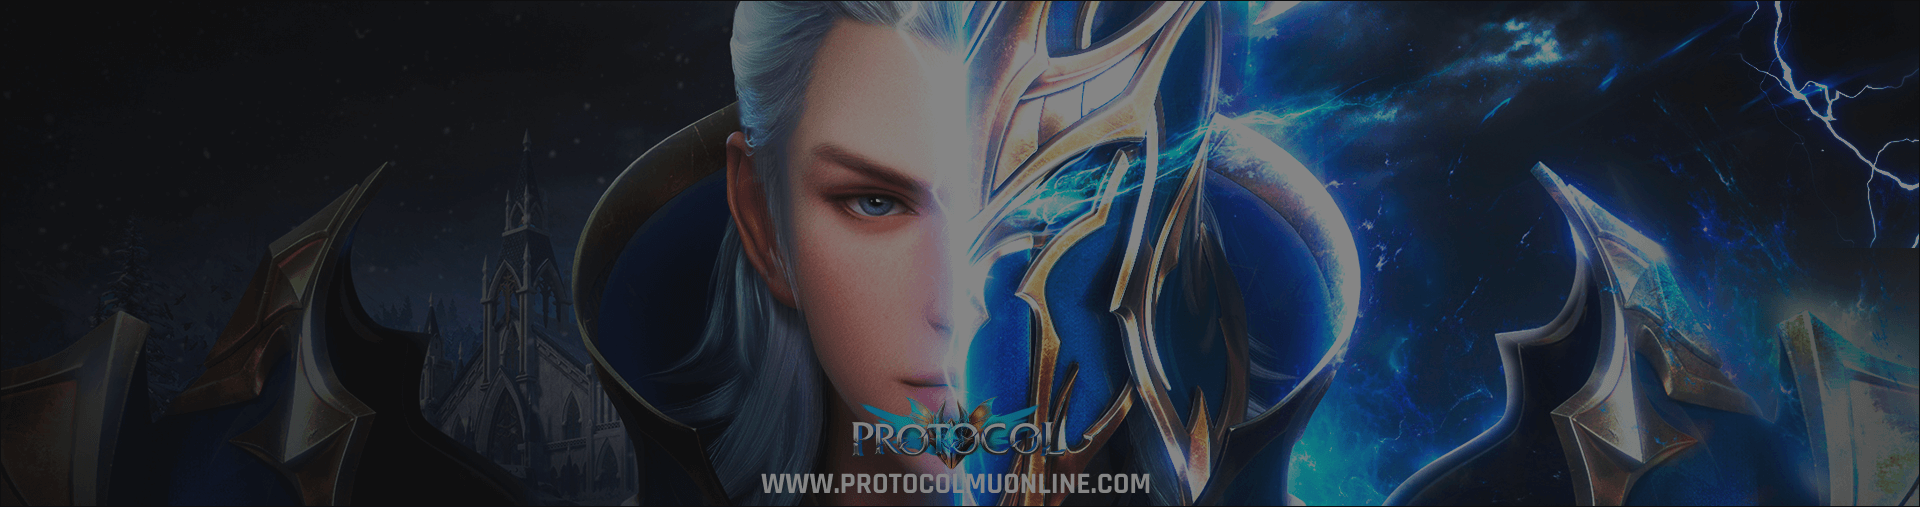
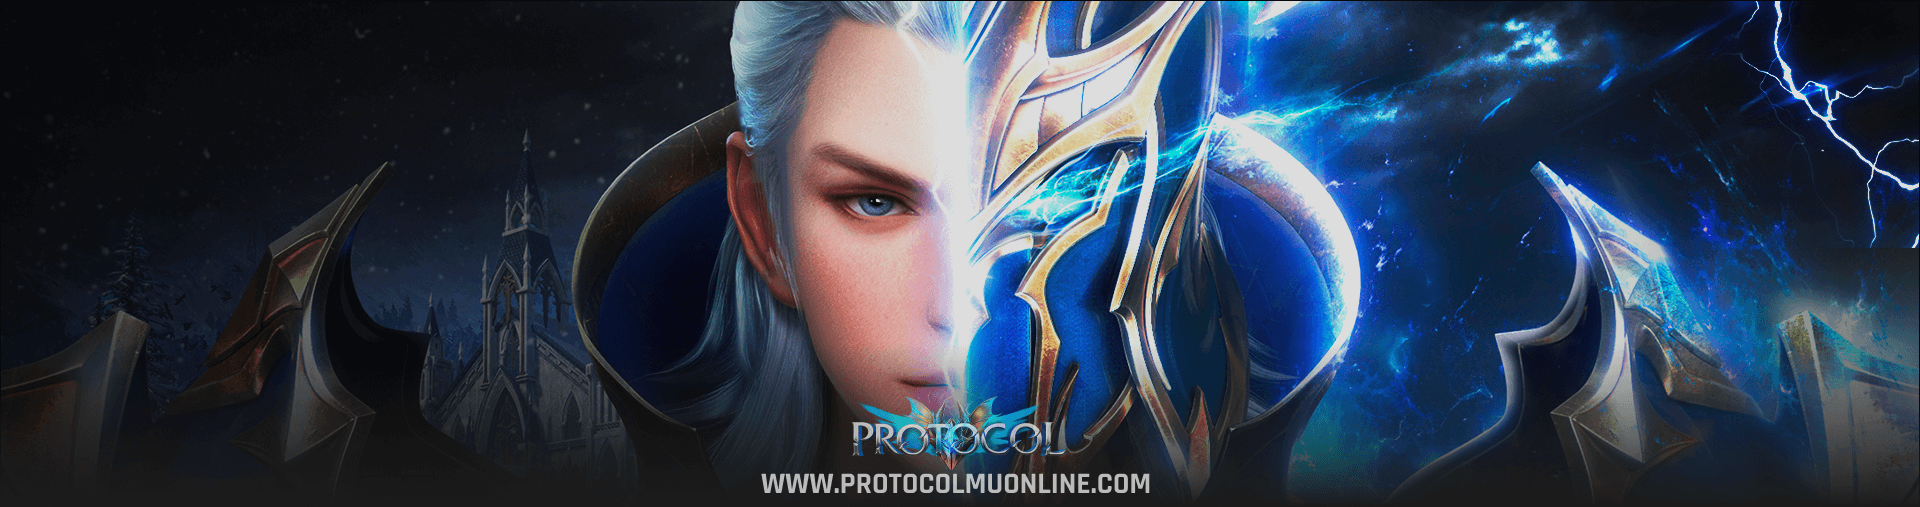
gamma colors

diff --git a/src/ui/components/BossMenu.tsx b/src/ui/components/BossMenu.tsx
@@ -1,18 +1,19 @@
 import { useSticky } from '../hooks/useSticky';
-import { Grid, Typography, Box } from '@mui/material';
+import { Grid, Box, Link, IconButton } from '@mui/material';
+import { CloseOutlined } from '@mui/icons-material';
 import { SubMenuProps } from '../../interfaces/interfaces';
 
 const boss = [
-    { id: 1, text: "Bowser", img: "assets/images/boss/boss1.png", width: "130px", path: "/", status: "active" },
-    { id: 2, text: "Viper ", img: "assets/images/boss/boss2.png", width: "115px", path: "/", status: "active" },
-    { id: 3, text: "Brickster", img: "assets/images/boss/boss3.png", width: "150px", path: "/", status: "active" },
-    { id: 4, text: "Queen Zeal", img: "assets/images/boss/boss4.png", width: "100px", path: "/", status: "active" },
-    { id: 5, text: "Malus", img: "assets/images/boss/boss5.png", width: "150px", path: "/", status: "active" },
-    { id: 6, text: "Primagen ", img: "assets/images/boss/boss6.png", width: "100px", path: "/", status: "active" },
-    { id: 7, text: "King Krusha", img: "assets/images/boss/boss7.png", width: "70px", path: "/", status: "active" },
-    { id: 8, text: "Kundun", img: "assets/images/boss/kundun.png", width: "210px", path: "/", status: "active" },
-    { id: 9, text: "Medusa", img: "assets/images/boss/medusa.png", width: "140px", path: "/", status: "active" },
-    { id: 10, text: "Selupan", img: "assets/images/boss/selupan.png", width: "170px", path: "/", status: "active" },
+    { id: 1, text: "Bowser", img: "assets/images/boss/boss1.png", width: "130px", path: "/", status: "inactive" },
+    { id: 2, text: "Viper ", img: "assets/images/boss/boss2.png", width: "115px", path: "/", status: "inactive" },
+    { id: 3, text: "Brickster", img: "assets/images/boss/boss3.png", width: "150px", path: "/", status: "inactive" },
+    { id: 4, text: "Queen Zeal", img: "assets/images/boss/boss4.png", width: "100px", path: "/", status: "inactive" },
+    { id: 5, text: "Malus", img: "assets/images/boss/boss5.png", width: "150px", path: "/", status: "inactive" },
+    { id: 6, text: "Primagen ", img: "assets/images/boss/boss6.png", width: "100px", path: "/", status: "inactive" },
+    { id: 7, text: "King Krusha", img: "assets/images/boss/boss7.png", width: "70px", path: "/", status: "inactive" },
+    { id: 8, text: "Kundun", img: "assets/images/boss/kundun.png", width: "210px", path: "/", status: "inactive" },
+    { id: 9, text: "Medusa", img: "assets/images/boss/medusa.png", width: "140px", path: "/", status: "inactive" },
+    { id: 10, text: "Selupan", img: "assets/images/boss/selupan.png", width: "170px", path: "/", status: "inactive" },
 ];
 
 export const BossMenu: React.FC<SubMenuProps> = ({ openSubmenu, handleClose }) => {
@@ -35,7 +36,7 @@ export const BossMenu: React.FC<SubMenuProps> = ({ openSubmenu, handleClose }) =
             onMouseLeave={handleClose}
         >
             {boss.map(({ id, text, img, width, path, status }) => (
-                <Grid item key={id} textAlign="center">
+                <Grid item key={id} textAlign="center" className='submenu-item' >
                     <Box width={width}>
                         <img
                             src={img}
@@ -44,10 +45,19 @@ export const BossMenu: React.FC<SubMenuProps> = ({ openSubmenu, handleClose }) =
                             className='mob-img'
                         />
                     </Box>
-                    <Typography variant='h5' fontFamily="Bebas Neue"> {text} </Typography>
+                    <Link
+                        variant='h5'
+                        fontFamily="Bebas Neue"
+                        underline='none'
+                        color="white"
+                    >
+                        {text}
+                    </Link>
                 </Grid>
-            ))
-            }
-        </Grid>
+            ))}
+            <IconButton onClick={handleClose} sx={{ position: "absolute", top: 10, right: 10 }}>
+                <CloseOutlined />
+            </IconButton>
+        </Grid >
     )
 }

diff --git a/src/ui/components/SemiBossMenu.tsx b/src/ui/components/SemiBossMenu.tsx
@@ -1,10 +1,11 @@
 import { useSticky } from '../hooks/useSticky';
-import { Grid, Typography, Box } from '@mui/material';
+import { Grid, Box, Link, IconButton } from '@mui/material';
+import { CloseOutlined } from '@mui/icons-material';
 import { SubMenuProps } from '../../interfaces/interfaces';
 
 const semiboss = [
     { id: 1, text: "Metal Balrog", img: "assets/images/semiboss/metal.png", width: "130px", path: "/", status: "active" },
-    { id: 2, text: "Erohim", img: "assets/images/semiboss/herohim.png", width: "100px", path: "/", status: "active" },
+    { id: 2, text: "Erohim", img: "assets/images/semiboss/herohim.png", width: "100px", path: "/", status: "inactive" },
     { id: 3, text: "Red Dragon", img: "assets/images/semiboss/red-dragon.png", width: "130px", path: "/", status: "active" },
     { id: 4, text: "Skeleton", img: "assets/images/semiboss/skeleton.png", width: "90px", path: "/", status: "active" },
     { id: 5, text: "Cursed Santa", img: "assets/images/semiboss/santa.png", width: "165px", path: "/", status: "active" },
@@ -31,7 +32,7 @@ export const SemiBossMenu: React.FC<SubMenuProps> = ({ openSubmenu, handleClose 
             onMouseLeave={handleClose}
         >
             {semiboss.map(({ id, text, img, width, path, status }) => (
-                <Grid item key={id} textAlign="center">
+                <Grid item key={id} textAlign="center" className='submenu-item'>
                     <Box width={width}>
                         <img
                             src={img}
@@ -40,10 +41,19 @@ export const SemiBossMenu: React.FC<SubMenuProps> = ({ openSubmenu, handleClose 
                             className='mob-img'
                         />
                     </Box>
-                    <Typography variant='h5' fontFamily="Bebas Neue"> {text} </Typography>
+                    <Link
+                        variant='h5'
+                        fontFamily="Bebas Neue"
+                        underline='none'
+                        color="white"
+                    >
+                        {text}
+                    </Link>
                 </Grid>
-            ))
-            }
+            ))}
+            <IconButton onClick={handleClose} sx={{ position: "absolute", top: 10, right: 10 }}>
+                <CloseOutlined />
+            </IconButton>
         </Grid>
     )
 }

diff --git a/src/ui/components/InvasionsMenu.tsx b/src/ui/components/InvasionsMenu.tsx
@@ -1,9 +1,10 @@
 import { useSticky } from '../hooks/useSticky';
-import { Grid, Typography, Box } from '@mui/material';
+import { Grid, Box, Link, IconButton } from '@mui/material';
+import { CloseOutlined } from '@mui/icons-material';
 import { SubMenuProps } from '../../interfaces/interfaces';
 
 const invasions = [
-    { id: 1, text: "Golden Invasion", img: "assets/images/invasions/golden.png", width: "100px", path: "/", status: "active" },
+    { id: 1, text: "Golden Invasion", img: "assets/images/invasions/golden.png", width: "100px", path: "/", status: "inactive" },
     { id: 2, text: "Gorgon", img: "assets/images/invasions/gorgon.png", width: "120px", path: "/", status: "active" },
     { id: 3, text: "Golems", img: "assets/images/invasions/golem-totem.png", width: "140px", path: "/", status: "active" },
     { id: 4, text: "Fire Flame", img: "assets/images/invasions/fireflame.png", width: "100px", path: "/", status: "active" },
@@ -33,7 +34,7 @@ export const InvasionsMenu: React.FC<SubMenuProps> = ({ openSubmenu, handleClose
             onMouseLeave={handleClose}
         >
             {invasions.map(({ id, text, img, width, path, status }) => (
-                <Grid item key={id} textAlign="center">
+                <Grid item key={id} textAlign="center" className='submenu-item'>
                     <Box width={width}>
                         <img
                             src={img}
@@ -42,10 +43,19 @@ export const InvasionsMenu: React.FC<SubMenuProps> = ({ openSubmenu, handleClose
                             className='mob-img'
                         />
                     </Box>
-                    <Typography variant='h5' fontFamily="Bebas Neue"> {text} </Typography>
+                    <Link
+                        variant='h5'
+                        fontFamily="Bebas Neue"
+                        underline='none'
+                        color="white"
+                    >
+                        {text}
+                    </Link>
                 </Grid>
-            ))
-            }
+            ))}
+            <IconButton onClick={handleClose} sx={{ position: "absolute", top: 10, right: 10 }}>
+                <CloseOutlined />
+            </IconButton>
         </Grid >
     )
 }

diff --git a/src/components/Banner.tsx b/src/components/Banner.tsx
@@ -1,6 +1,9 @@
 import { useState } from 'react';
-import { Grid, Typography } from '@mui/material';
+import { Container, Grid, Typography } from '@mui/material';
 import { ModalEventTimmer } from './ModalEventTimmer';
+
+import Typewriter from 'typewriter-effect';
+
 
 export const Banner = () => {
 
@@ -11,16 +14,30 @@ export const Banner = () => {
     return (
         <Grid container position="relative" justifyContent="end" alignItems="center">
             <img src="assets/images/banner.png" alt="" width="100%" />
-           {/*  <Typography
+            <Typography
                 variant='h4'
                 fontFamily="Rajdhani"
                 fontWeight={800}
                 position="absolute"
-                left="8%"
+                left={{ xs: "8%", xl: "20%" }}
             >
-                TODA LA INFORMACION SOBRE <br />
-                NUESTROS EVENTOS!
-            </Typography> */}
+                <Typewriter
+                    options={{
+                        autoStart: true,
+                        loop: true,
+                    }}
+                    onInit={(typewriter) => {
+                        typewriter.typeString(`BIEVENIDO GUERRERO! `)
+                            .pauseFor(3500)
+                            .deleteAll()
+                            .start();
+                        typewriter.typeString('SERVIDOR DEDICADO <br> 100% PLAY TO WIN')
+                            .pauseFor(3500)
+                            .deleteAll()
+                            .start();
+                    }}
+                />
+            </Typography>
             <Grid
                 container
                 position="absolute"

diff --git a/src/pages/HomePage.tsx b/src/pages/HomePage.tsx
@@ -1,11 +1,15 @@
 import { Banner } from "../components/Banner"
 import { Header } from "../ui/Header"
+import { Box } from '@mui/material';
 
 export const HomePage: React.FC = () => {
     return (
         <>
             <Header />
             <Banner />
+            <Box textAlign="center">
+                <img src="assets\images\scroll-icon.png" width="500px"/>
+            </Box>
         </>
     )
 }

diff --git a/src/theme/Mutheme.ts b/src/theme/Mutheme.ts
@@ -4,7 +4,7 @@ export const MuTheme = createTheme({
     components: {
         MuiCssBaseline: {
             styleOverrides: `
-            body{background: #181819}
+            body{background: #1C1C1C}
             @import url('https://fonts.googleapis.com/css2?family=Bebas+Neue&family=Poppins&family=Rajdhani:wght@400;700&display=swap');
             `,
         },

diff --git a/src/app.scss b/src/app.scss
@@ -148,7 +148,17 @@ button:hover {
     top: -100%;
     overflow-y: scroll;
     max-height: 75vh;
+
+    a {
+        transition: all 0.3s;
+    }
+
+    .submenu-item:hover a {
+        color: #0A97FE;
+        transition: all 0.4s;
+    }
 }
+
 
 .submenu-active {
     z-index: 1;
